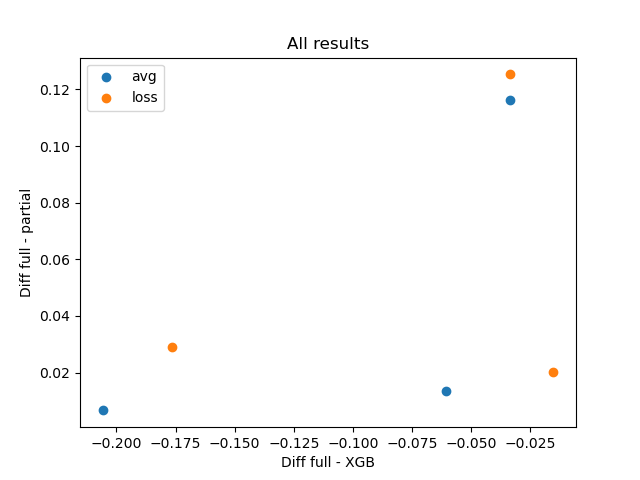
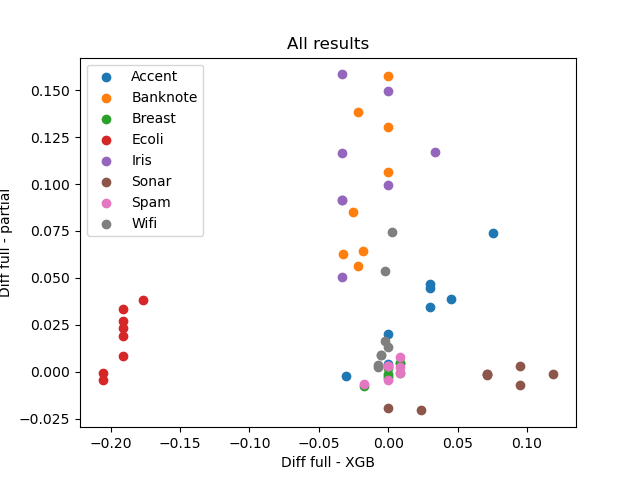
added losses fw

diff --git a/reg_model/evaluations_plots.py b/reg_model/evaluations_plots.py
@@ -9,7 +9,8 @@ def load_xgb_res():
     return res_as_dict
 
 
-def plot_res(runs_names, raw_datasets_names, labels, full_results, partial_results):
+def plot_res(runs_names, raw_datasets_names, labels, full_results, partial_results,
+             savefile: str = 'all_results_diffs.png'):
     # raw_datasets_names = [ds.split('-')[0] for ds in runs_names]
     colors = plt.get_cmap("tab20").colors
 
@@ -43,5 +44,5 @@ def plot_res(runs_names, raw_datasets_names, labels, full_results, partial_resul
     #     plt.annotate(ds, (diff_full_xgb[ds], diff_partial_full[ds]))
 
     plt.legend()
-    plt.savefig("all_results_diffs.png")
+    plt.savefig(savefile)
     plt.show()

diff --git a/reg_model/main_experimens.py b/reg_model/main_experimens.py
@@ -219,7 +219,7 @@ def run_many_datasets(datasets: list = None, save_res: bool = False, **kwargs):
 
     if save_res:
         res_df = pd.DataFrame(all_res).T
-        res_df.to_csv(f"fw_{kwargs['weight_type']}.csv") 
+        res_df.to_csv(f"fw_{kwargs['weight_type']}.csv")
 
     return all_res
 
@@ -247,4 +247,4 @@ if __name__ == '__main__':
     title_datasets = [f"{d} ({fw[i]})" for i, d in enumerate(raw_datasets)]
 
     plot_res(runs_names=title_datasets, raw_datasets_names=raw_datasets, labels=fw, full_results=full_scores,
-             partial_results=partial_scores, )
+             partial_results=partial_scores, savefile="all_res_different_fw.png")
